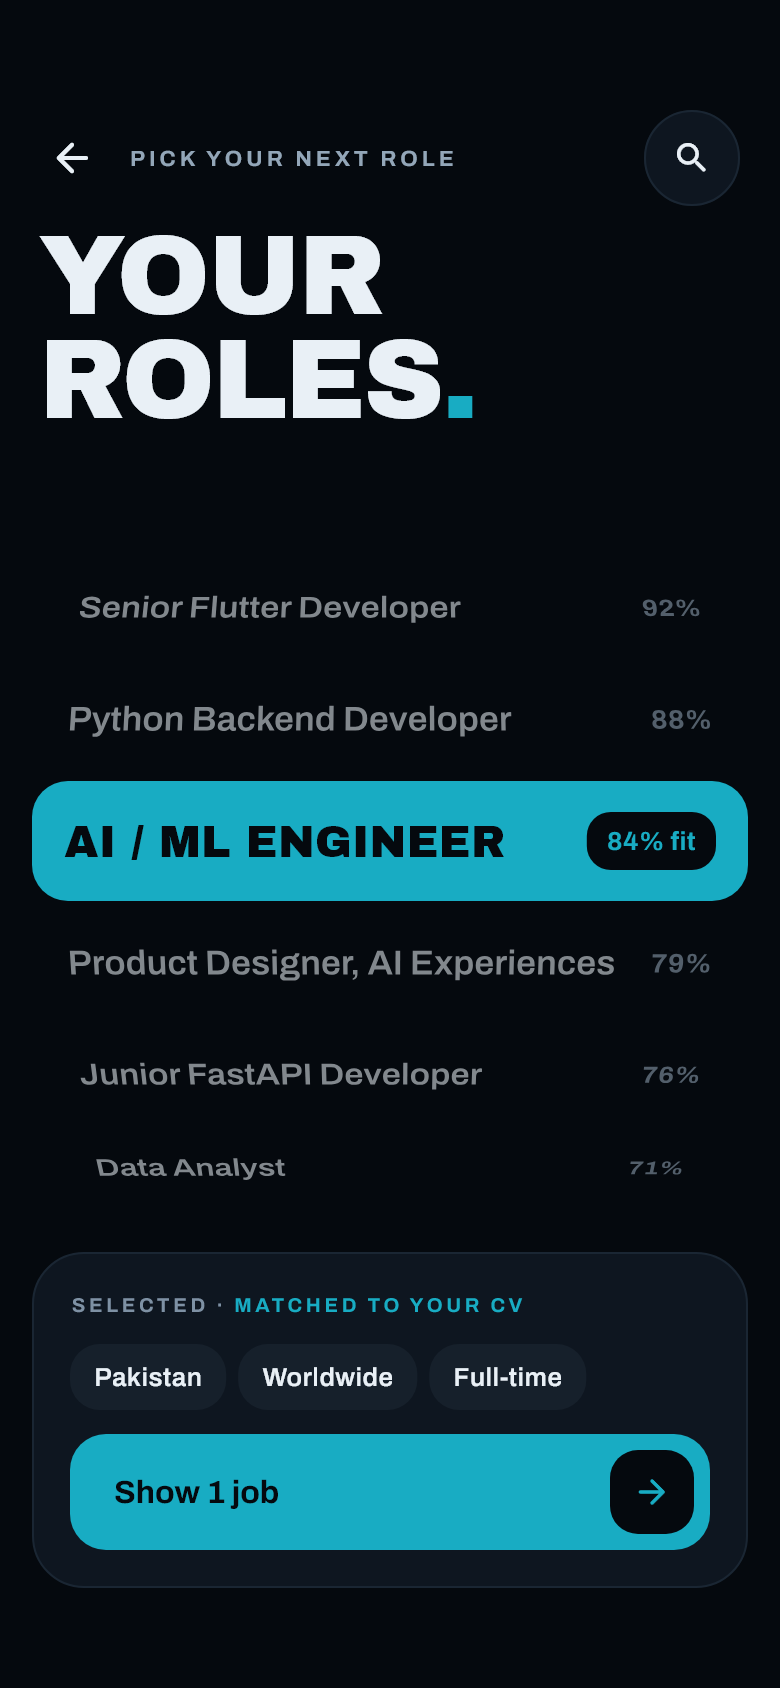
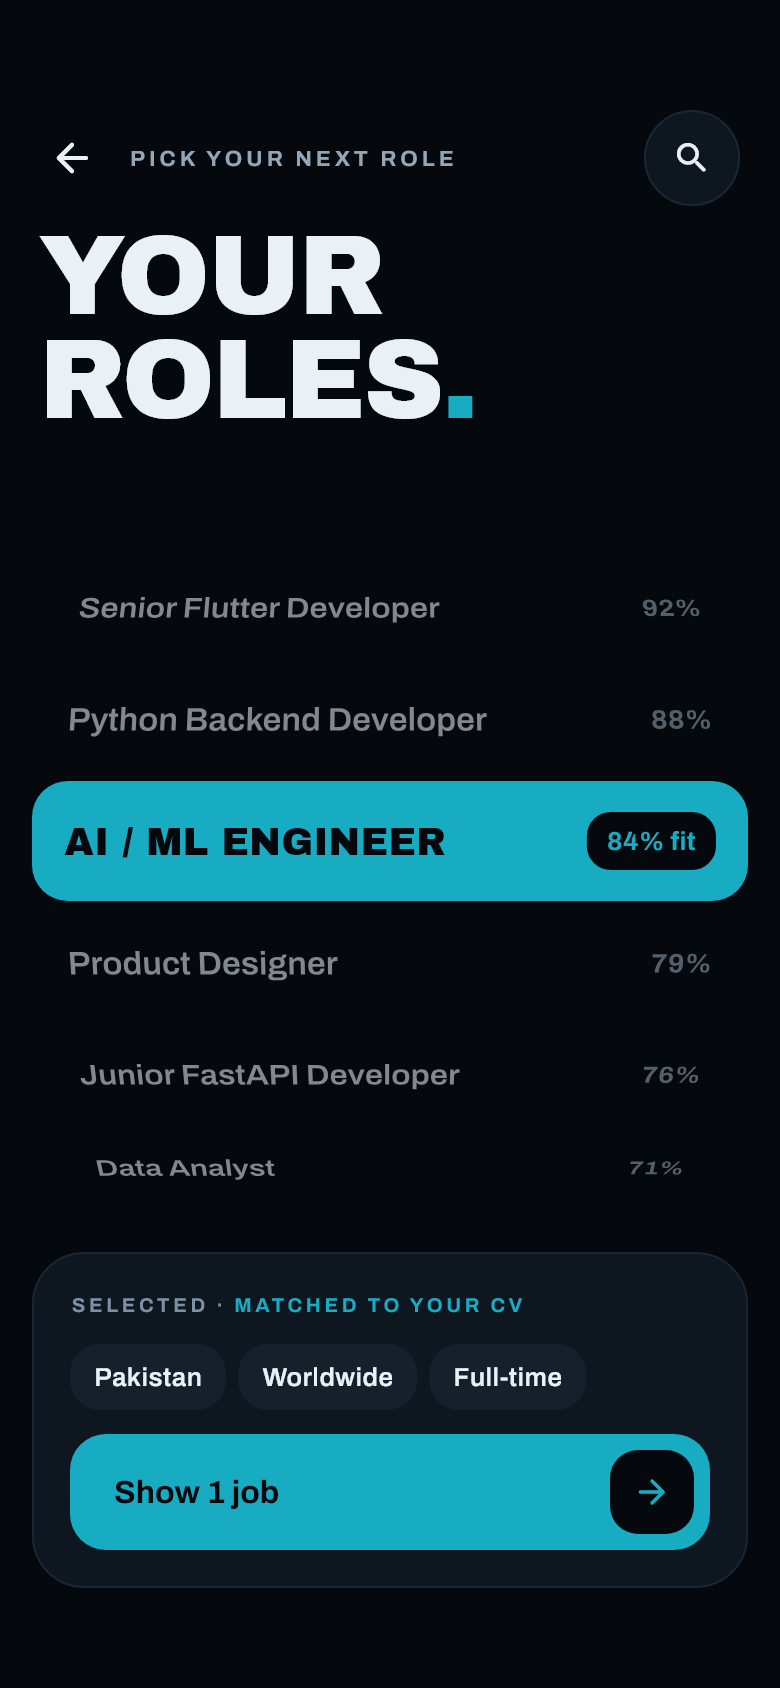
Your roles: short, readable role names instead of tiny long titles

diff --git a/mobile_app/lib/features/job_search/presentation/screens/roles_screen.dart b/mobile_app/lib/features/job_search/presentation/screens/roles_screen.dart
@@ -27,6 +27,33 @@ class RolesScreen extends ConsumerStatefulWidget {
     'DevOps Engineer',
   ];
 
+  /// Turns a long posting title into a short role name for the wheel, e.g.
+  /// "Python Developers Hiring - Lahore | Urgent" → "Python Developers".
+  static String shortRole(String title) {
+    var t = title.trim();
+    // Drop a leading "Hiring:" / "Urgent" style prefix.
+    t = t.replaceFirst(
+      RegExp(
+        r'^(urgent(ly)?|now|we are|we.re)?\s*(hiring|wanted|required)\b[\s:!\-–—|]*',
+        caseSensitive: false,
+      ),
+      '',
+    );
+    // Keep the part before separators, locations and "hiring" tails.
+    t = t.split(RegExp(r'\s[-–—|]\s|[|(\[,:;!]|\s[-–—]')).first;
+    t = t
+        .split(
+          RegExp(
+            r'\s(hiring|wanted|required|needed|urgent(ly)?|at|for|in|with|job|jobs|opportunity)\b',
+            caseSensitive: false,
+          ),
+        )
+        .first;
+    final words = t.trim().split(RegExp(r'\s+')).where((w) => w.isNotEmpty);
+    final short = words.take(4).join(' ');
+    return short.isEmpty ? title.trim() : short;
+  }
+
   @override
   ConsumerState<RolesScreen> createState() => _RolesScreenState();
 }
@@ -54,7 +81,9 @@ class _RolesScreenState extends ConsumerState<RolesScreen> {
     final seen = <String>{};
     final roles = [
       for (final t in [...loaded, ...RolesScreen.fallbackRoles])
-        if (seen.add(t.toLowerCase())) t,
+        if (RolesScreen.shortRole(t) case final r
+            when r.isNotEmpty && seen.add(r.toLowerCase()))
+          r,
     ];
     return roles;
   }
@@ -316,20 +345,18 @@ class _RoleItem extends StatelessWidget {
           child: Row(
             children: [
               Expanded(
-                // The selected role shrinks to fit instead of being cut off.
-                child: FittedBox(
-                  fit: BoxFit.scaleDown,
-                  alignment: Alignment.centerLeft,
-                  child: Text(
-                    active ? label.toUpperCase() : label,
-                    maxLines: 1,
-                    style: TextStyle(
-                      fontFamily: active ? AppFonts.display : AppFonts.label,
-                      fontWeight: active ? FontWeight.w400 : FontWeight.w600,
-                      fontSize: active ? 22 : 18,
-                      letterSpacing: active ? 0.2 : 0,
-                      color: active ? Bold.onLight : Bold.ink,
-                    ),
+                // Stays readable: wraps to two lines, never shrinks.
+                child: Text(
+                  active ? label.toUpperCase() : label,
+                  maxLines: active ? 2 : 1,
+                  overflow: TextOverflow.ellipsis,
+                  style: TextStyle(
+                    fontFamily: active ? AppFonts.display : AppFonts.label,
+                    fontWeight: active ? FontWeight.w400 : FontWeight.w600,
+                    fontSize: active ? 19 : 17,
+                    height: 1.05,
+                    letterSpacing: active ? 0.2 : 0,
+                    color: active ? Bold.onLight : Bold.ink,
                   ),
                 ),
               ),

diff --git a/mobile_app/test/bold_screens_test.dart b/mobile_app/test/bold_screens_test.dart
@@ -71,4 +71,32 @@ void main() {
     final field = tester.widget<TextField>(find.byType(TextField).first);
     expect(field.controller!.text, isNotEmpty);
   });
+
+  test('long posting titles become short role names', () {
+    expect(
+      RolesScreen.shortRole(
+        'Python Developers Hiring - Lahore | Urgent Python Backend Job',
+      ),
+      'Python Developers',
+    );
+    expect(
+      RolesScreen.shortRole('Hiring: Senior Flutter Developer (Remote)'),
+      'Senior Flutter Developer',
+    );
+    expect(RolesScreen.shortRole('AI / ML Engineer'), 'AI / ML Engineer');
+    expect(
+      RolesScreen.shortRole('Product Designer, AI Experiences'),
+      'Product Designer',
+    );
+    expect(
+      RolesScreen.shortRole('Artificial Intelligence Engineer at Systems Ltd'),
+      'Artificial Intelligence Engineer',
+    );
+    expect(
+      RolesScreen.shortRole(
+        'Senior Full Stack JavaScript React Node Developer',
+      ).split(' ').length,
+      4,
+    );
+  });
 }
